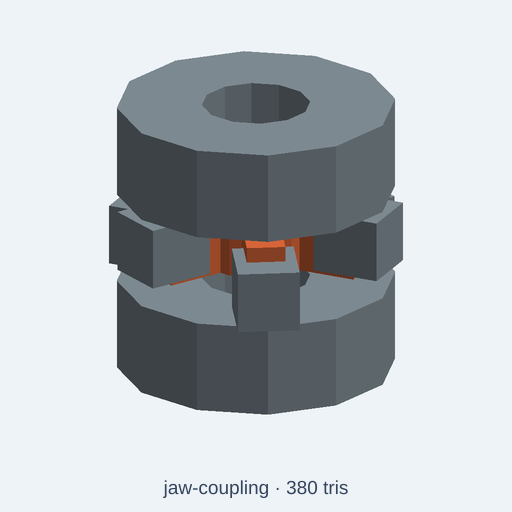
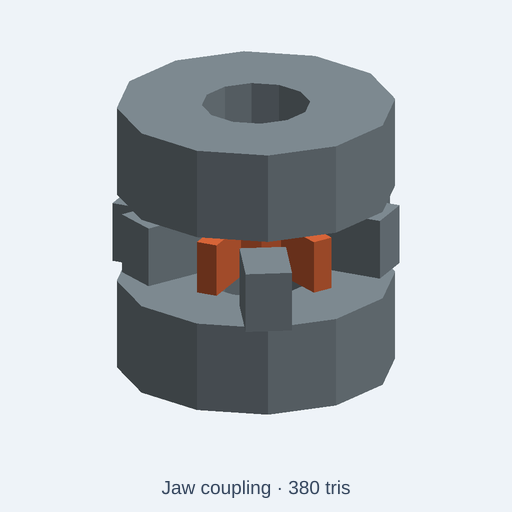
fix(catalog): remove jaw-spider interpenetration in standard component review

diff --git a/tests/integration/catalog/jawCouplingFidelity.test.ts b/tests/integration/catalog/jawCouplingFidelity.test.ts
@@ -1,0 +1,100 @@
+// SPDX-License-Identifier: MIT
+// Semantic proof: a jaw coupling must place the elastomer fingers BETWEEN
+// the six metal jaws. All six spider fingers originally intersected metal.
+// Validate the actual exported GLB parts, with a deliberately broken control.
+import { beforeAll, describe, expect, it } from 'vitest';
+import { readFileSync } from 'node:fs';
+import { resolve } from 'node:path';
+import { NodeIO } from '@gltf-transform/core';
+import { initOcct } from '../../../src/kernel/backends/occt/occtBackend';
+import { buildCatalogAssetWithGlb } from '../../../src/agent/catalog/buildCatalog';
+import { runAndExport } from '../../../src/agent/script-runtime/export';
+
+type Vec=[number,number];
+type Part={name:string; footprint:Vec[]; minY:number; maxY:number};
+const root=resolve(import.meta.dirname,'../../..');
+const file=resolve(root,'catalog/kits/standard-components/jaw-coupling.kcad.ts');
+const source=readFileSync(file,'utf8');
+
+function hull(points:Vec[]):Vec[] {
+  const uniq=[...new Map(points.map(v=>[`${v[0]},${v[1]}`,v])).values()]
+    .sort((a,b)=>a[0]-b[0]||a[1]-b[1]);
+  const cross=(o:Vec,p:Vec,q:Vec)=>(p[0]-o[0])*(q[1]-o[1])-(p[1]-o[1])*(q[0]-o[0]);
+  const lower:Vec[]=[],upper:Vec[]=[];
+  for (const v of uniq) { while(lower.length>1&&cross(lower.at(-2)!,lower.at(-1)!,v)<=0) lower.pop();lower.push(v); }
+  for (const v of uniq.slice().reverse()) { while(upper.length>1&&cross(upper.at(-2)!,upper.at(-1)!,v)<=0) upper.pop();upper.push(v); }
+  return [...lower.slice(0,-1),...upper.slice(0,-1)];
+}
+function overlap(a:Part,b:Part):boolean {
+  if(Math.min(a.maxY,b.maxY)-Math.max(a.minY,b.minY)<=0.00005)return false;
+  // SAT on the convex footprints of the cuboid parts, in exported XZ metres.
+  // The Y intervals must also overlap. Do not reject real near-tangent joints.
+  for(const poly of [a.footprint,b.footprint])for(let i=0;i<poly.length;i++){
+    const x=poly[i]!,y=poly[(i+1)%poly.length]!;
+    const axis:Vec=[y[1]-x[1],x[0]-y[0]];
+    const project=(v:Vec)=>v[0]*axis[0]+v[1]*axis[1];
+    const A=a.footprint.map(project),B=b.footprint.map(project);
+    const penetration=Math.min(Math.max(...A),Math.max(...B))-Math.max(Math.min(...A),Math.min(...B));
+    if(penetration<=0.00005*Math.hypot(...axis))return false;
+  }
+  return true;
+}
+async function overlapPairs(glb:Uint8Array):Promise<{names:string[],pairs:string[]}> {
+  const doc=await new NodeIO().readBinary(glb);
+  const parts=new Map<string,Part>();
+  for(const node of doc.getRoot().listNodes()){
+    const name=node.getName();if(!/^(drive-jaw-|driven-jaw-|spider-lobe-)/.test(name))continue;
+    const mesh=node.getMesh();if(!mesh)continue;
+    const m=node.getWorldMatrix();const footprint:Vec[]=[];let low=Infinity,high=-Infinity;
+    for(const prim of mesh.listPrimitives()){
+      const pos=prim.getAttribute('POSITION');if(!pos)continue;
+      for(let i=0;i<pos.getCount();i++){
+        const v=pos.getElement(i,[]);
+        const x=m[0]!*v[0]!+m[4]!*v[1]!+m[8]!*v[2]!+m[12]!;
+        const y=m[1]!*v[0]!+m[5]!*v[1]!+m[9]!*v[2]!+m[13]!;
+        const z=m[2]!*v[0]!+m[6]!*v[1]!+m[10]!*v[2]!+m[14]!;
+        footprint.push([x,z]);low=Math.min(low,y);high=Math.max(high,y);
+      }
+    }
+    parts.set(name,{name,footprint:hull(footprint),minY:low,maxY:high});
+  }
+  const pairs:string[]=[];
+  for(const [name,spider] of parts)if(name.startsWith('spider-lobe-'))
+    for(const [metal,jaw] of parts)if(metal.includes('-jaw-')&&overlap(spider,jaw))pairs.push(`${name}/${metal}`);
+  return {names:[...parts.keys()],pairs};
+}
+async function variant(code:string) {
+  const result=await runAndExport({
+    code,fileName:'jaw-coupling.kcad.ts',scriptDir:resolve(file,'..'),
+    format:'glb',options:{format:'glb',style:'lowpoly',lowpoly:{maxTriangles:520}},
+  });
+  expect(result.diagnostics.filter(d=>d.severity==='error')).toEqual([]);
+  return overlapPairs(result.bytes);
+}
+
+beforeAll(async()=>{await initOcct();});
+describe('jaw coupling low-poly component identity',()=>{
+  it('retains 6 metal jaws and 6 spider lobes without any material overlap',async()=>{
+    const {asset,glb}=await buildCatalogAssetWithGlb(root,'catalog/kits/standard-components/jaw-coupling.kcad.ts');
+    expect(asset.description).toMatch(/not a rated torque\/fatigue or vendor manufacturing model/i);
+    expect(asset.stats.triangles).toBeLessThanOrEqual(asset.triangleBudget);
+    expect(asset.stats.minUpM).toBeCloseTo(0,6);
+    const actual=await overlapPairs(glb);
+    expect(actual.names.filter(n=>n.includes('-jaw-'))).toHaveLength(6);
+    expect(actual.names.filter(n=>n.startsWith('spider-lobe-'))).toHaveLength(6);
+    expect(actual.pairs).toEqual([]);
+  },30000);
+  it('detects all 6 collisions when the former co-rotated spider layout is restored',async()=>{
+    const broken=source.replace('rotateZ(i*60+30)','rotateZ(i*60)');
+    expect(broken).not.toBe(source);
+    const found=await variant(broken);
+    expect(found.pairs).toHaveLength(6);
+  },30000);
+  it('keeps the cleared interfaces in both scaled variants',async()=>{
+    for(const name of ['compact','large']){
+      const changed=source.replace("param('size', 'standard'",`param('size', '${name}'`);
+      expect(changed).not.toBe(source);
+      expect((await variant(changed)).pairs).toEqual([]);
+    }
+  },30000);
+});

diff --git a/catalog/kits/standard-components/jaw-coupling.kcad.ts b/catalog/kits/standard-components/jaw-coupling.kcad.ts
@@ -3,7 +3,7 @@ meta({
   name: 'jaw-coupling',
   license: 'CC0-1.0',
   title: 'Jaw coupling',
-  description: 'Two jaw hubs with a visible flexible center spider between the shaft bores Knobs: model size, steel, engineering polymer.',
+  description: 'Illustrative CC0 low-poly jaw coupling: two bored hubs with three offset jaws each, and a separate six-lobed elastomer spider seated in the six alternating spaces. Not a rated torque/fatigue or vendor manufacturing model. Controls: model size, steel and polymer colors.',
   tags: ['jaw coupling', 'flexible coupling', 'shaft connector', 'rotary'],
   kit: 'standard-components',
   category: 'attachment',
@@ -32,11 +32,13 @@ a.part('drive-hub',hubA.color(steel));
 a.part('driven-hub',hubB.translate(0,0,24*s).color(steel));
 for (let i=0;i<3;i++) {
   const angle=120*i;
-  a.part(`drive-jaw-${i}`,block(10*s,-4*s,12*s,9*s,8*s,8*s).rotateZ(angle).color(steel));
-  a.part(`driven-jaw-${i}`,block(10*s,-4*s,16*s,9*s,8*s,8*s).rotateZ(angle+60).color(steel));
+  a.part(`drive-jaw-${i}`,block(10*s,-3*s,12*s,9*s,6*s,8*s).rotateZ(angle).color(steel));
+  a.part(`driven-jaw-${i}`,block(10*s,-3*s,16*s,9*s,6*s,8*s).rotateZ(angle+60).color(steel));
 }
 a.part('elastomer-core',cylinder(7*s,8*s,16).translate(0,0,15*s).color(polymer));
+// Metal jaws are centred at 0, 60, 120 ... degrees. The spider fingers must
+// occupy the intervening spaces, not coincide with and penetrate those jaws.
 for (let i=0;i<6;i++) {
-  a.part(`spider-lobe-${i}`,block(7*s,-2.5*s,15*s,8*s,5*s,7*s).rotateZ(i*60).color(polymer));
+  a.part(`spider-lobe-${i}`,block(7*s,-1.4*s,15*s,8*s,2.8*s,7*s).rotateZ(i*60+30).color(polymer));
 }
 return a.model();
